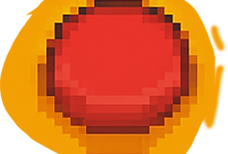
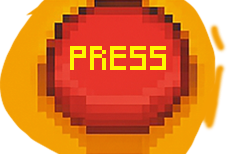
✨ 전설의포켓몬 확률조작
슬롯 버튼에 press문구까지 추가

Changed region(s): [[0.307, 0.2857, 0.7368, 0.4675]]

diff --git a/src/pages/slot/slot.ts b/src/pages/slot/slot.ts
@@ -152,11 +152,16 @@ async function ranNumRepeat(num1: number) {
 /* ───────────── 도감 번호 랜덤 추출기 ───────────── */
 async function dogamNumMake() {
   const dogamArr = [];
-  for (let i = 1; i <= 151; i++) {
-    dogamArr.push(i);
+  for (let i = 1; i <= 3; i++) {
+    for (let k = 1; k <= 143; k++) {
+      dogamArr.push(k);
+    }
+    for (let k = 147; k <= 149; k++) {
+      dogamArr.push(k);
+    }
   }
 
-  dogamArr.push(777, 888); //특별번호 추가
+  dogamArr.push(144, 145, 146, 777, 888); //특별번호 추가
 
   const dogamNum = dogamArr[Math.floor(Math.random() * dogamArr.length)];
 
@@ -171,11 +176,10 @@ async function yourPokemon(num: number) {
   도감 번호를 문자화로 변경 -> 3자리 문자인데 빈공간에 0 삽입 -> 한글자씩 쪼개서 -> 문자로 변환하여 배열로 저장
    */
   const arr: number[] = String(dogamNum).padStart(3, '0').split('').map(Number);
-  // dogamgetMusic.currentTime = 0;
-  // dogamgetMusic.play();
   changeNum(arr); // 도감번호 화면에 반영
+  allowMusic(dogamgetMusic, false);
   localStorage.setItem('todayGet', dogamNum.toString()); // 로컬스토리지에 저장
-  allowMusic(casinoMusic, true); // 배경음악 호출
+  // allowMusic(casinoMusic, true); // 배경음악 호출
   return dogamNum;
 }
 
